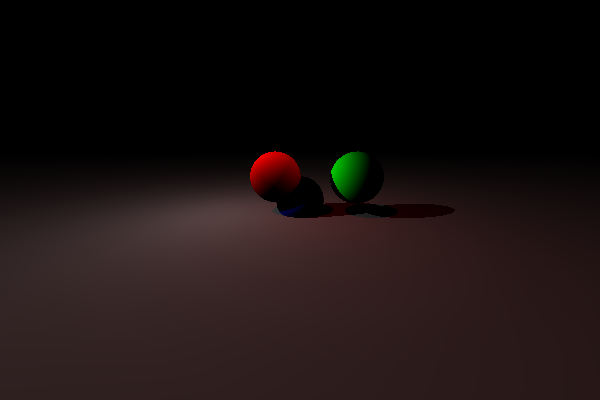
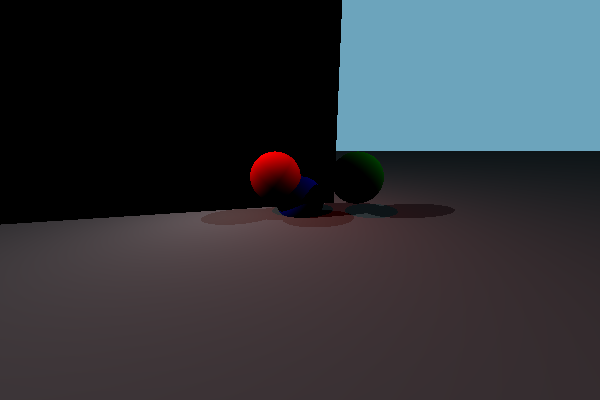
inside outside check to finish

Changed region(s): [[0.45, 0.0, 1.0, 0.51], [0.0, 0.42, 0.45, 0.57]]

diff --git a/src/components/triangle.rs b/src/components/triangle.rs
@@ -19,9 +19,9 @@ impl Triangle {
     }
     pub fn new_defined() -> Triangle {
         let coord = [
-            Vector3::new(3.0,3.0,3.0),
-            Vector3::new(3.0,3.5,3.0),
-            Vector3::new(3.0,3.5,3.5)
+            Vector3::new(1.0,1.0,-1.0),
+            Vector3::new(1.0,1.3,-1.0),
+            Vector3::new(1.0,1.3,-1.3)
         ];
         Triangle {
             coordinates : coord,
@@ -56,20 +56,34 @@ impl Intersectable for Triangle {
             .sum()
     }
     fn intersect(&self, ray: &Ray) -> Option<PointInfo> {
-        if !self.simple_intersect(ray) {
-            None
-        } else {
+        
+        let normal = &self.normal;
+        let denom = normal.dot(&ray.direction);
+        if denom > 1e-6 {
             let d = self.normal.dot(&self.coordinates[0]);
             let t = -(self.normal.dot(&ray.origin) + d) / self.normal.dot(&ray.direction);
             let intersection = ray.origin + t * ray.direction;
-            Some(
-                PointInfo {
-                    normal : -self.normal,
-                    intersection : intersection,
-                    distance : t
-                }
-            )
+            let inside = {
+                let dot1 = self.normal;
+                let dot2 = {
+                    let x = self.coordinates[1] - self.coordinates[0];
+                    let y = intersection - self.coordinates[0];
+                    x.cross(&y)
+                };
+                dot1.dot(&dot2) >= 0.0
+            };
+            if t >= 0.0 && inside {
+                return Some(
+                    PointInfo {
+                        distance : t,
+                        normal : self.normal,
+                        intersection : intersection
+                    }
+                );
+            }
         }
+        None
+    
         
         
     }

diff --git a/src/main.rs b/src/main.rs
@@ -21,12 +21,12 @@ fn render_multiple_scenes() {
         Element::Sphere(Sphere::new(0f32, 1f32, -4f32, Colors::RED, 1.0)),
         Element::Sphere(Sphere::new(1f32, 1f32, -1f32, Colors::GREEN, 1.0)),
         Element::Plane(Plane::new()),
-        // Element::Triangle(Triangle::new_defined())
+        Element::Triangle(Triangle::new_defined())
     ];
     let lights = [
         Light::DirectionalLight(DirectionalLight {
-            color: Colors::WHITE.value(),
-            intensity: 0.001,
+            color: Colors::SKYBLUE.value(),
+            intensity: 0.8,
             direction: Vector3::new(0.0, -1.0, -1.0),
         }),
         Light::PointLight(PointLight {
